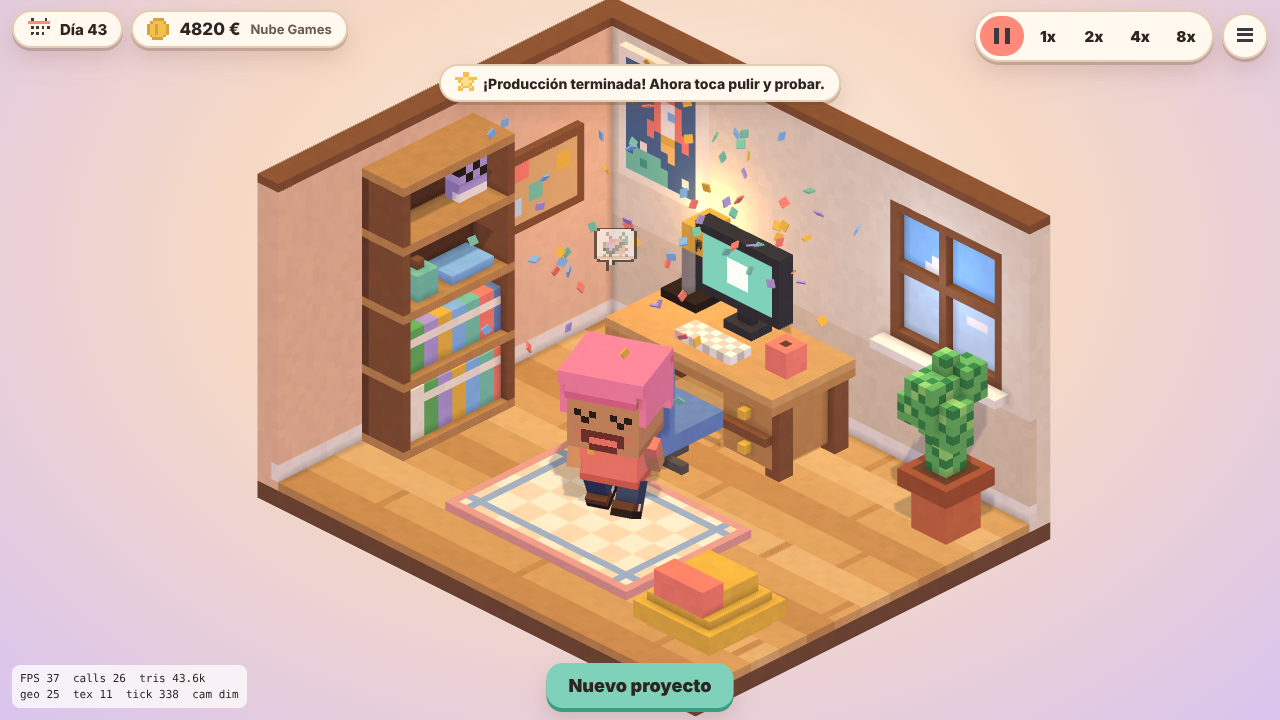
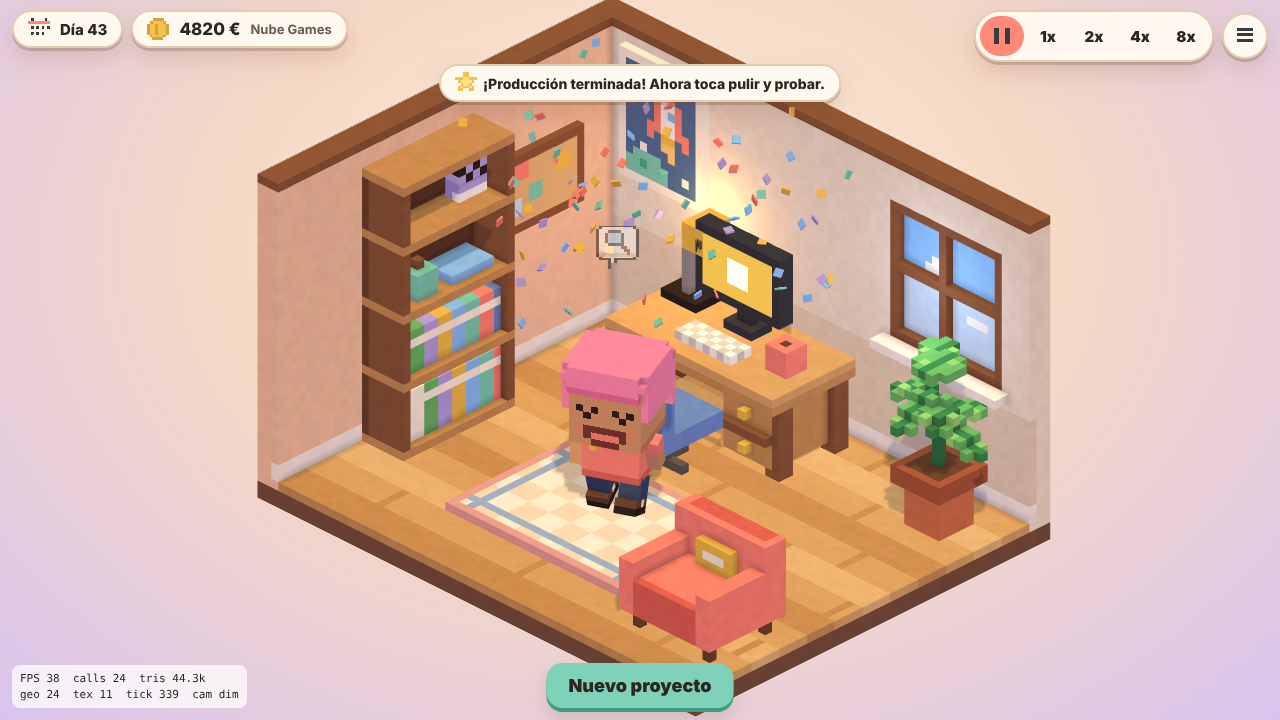
Pulido visual: planta de hojas anchas, sillón en lugar del puf, pelo menos cúbico, burbuja de diálogo sobre la cabeza
Claude-Session: https://claude.ai/code/session_01MghTDSHkAAcfuSCu2VqBvQ

diff --git a/src/render/models/furniture.ts b/src/render/models/furniture.ts
@@ -103,18 +103,31 @@ export function buildChair(): VoxelGrid {
 }
 
 export function buildPlant(): VoxelGrid {
-  const g = new VoxelGrid(9, 20, 9);
-  g.box(2, 0, 2, 7, 6, 7, P.terracotta);
-  g.box(1, 5, 1, 8, 7, 8, P.terracottaDark);
-  g.box(2, 6, 2, 7, 7, 7, P.woodDeep);
-  // Leaf clusters (hand-placed, slightly irregular)
-  const leaves: [number, number, number, number, number, number][] = [
-    [3, 7, 3, 6, 13, 6], [1, 10, 2, 4, 14, 5], [5, 11, 4, 8, 16, 7], [2, 13, 4, 6, 18, 8],
-    [4, 15, 1, 7, 19, 4], [0, 12, 4, 3, 15, 7], [3, 17, 3, 5, 20, 5],
-  ];
-  leaves.forEach(([x0, y0, z0, x1, y1, z1], i) =>
-    g.box(x0, y0, z0, x1, y1, z1, (x, y, z) => ((x + y + z + i) % 3 === 0 ? P.leafDark : (x * y + z) % 5 === 0 ? P.leafLight : P.leaf)),
-  );
+  const g = new VoxelGrid(13, 22, 13);
+  // Pot (offset so leaves can spill over the rim)
+  g.box(4, 0, 4, 9, 6, 9, P.terracotta);
+  g.box(3, 5, 3, 10, 7, 10, P.terracottaDark);
+  g.box(4, 6, 4, 9, 7, 9, P.woodDeep);
+  // Stems
+  g.box(6, 7, 6, 7, 15, 7, P.leafDark);
+  // Broad leaves radiating outwards at different heights (monstera-like plates).
+  const leaf = (x0: number, y: number, z0: number, w: number, d: number, droop: [number, number]) => {
+    for (let dz = 0; dz < d; dz++)
+      for (let dx = 0; dx < w; dx++) {
+        const edge = (dx === 0 || dx === w - 1) && (dz === 0 || dz === d - 1);
+        if (edge) continue; // rounded corners
+        const tipDrop = Math.round((droop[0] * dx) / Math.max(1, w - 1) + (droop[1] * dz) / Math.max(1, d - 1));
+        const mid = w > d ? dz === Math.floor(d / 2) : dx === Math.floor(w / 2);
+        g.set(x0 + dx, y - tipDrop, z0 + dz, mid ? P.leafDark : (dx + dz) % 4 === 0 ? P.leafLight : P.leaf);
+      }
+  };
+  leaf(7, 12, 5, 6, 3, [2, 0]);   // +x
+  leaf(0, 13, 5, 6, 3, [-2, 0]);  // -x (droop handled by sign below)
+  leaf(5, 15, 7, 3, 6, [0, 2]);   // +z
+  leaf(5, 11, 0, 3, 6, [0, -1]);  // -z
+  leaf(4, 18, 4, 5, 5, [0, 0]);   // crown
+  leaf(8, 16, 8, 4, 4, [1, 1]);
+  leaf(1, 17, 1, 4, 4, [0, 0]);
   return g;
 }
 
@@ -201,13 +214,23 @@ export function buildRug(): VoxelGrid {
   return g;
 }
 
-export function buildBeanbag(): VoxelGrid {
-  const g = new VoxelGrid(11, 7, 11);
-  g.box(1, 0, 1, 10, 4, 10, P.mustard);
-  g.box(0, 1, 0, 11, 3, 11, P.mustard);
-  g.box(2, 4, 2, 9, 6, 9, P.mustard);
-  g.box(2, 4, 7, 9, 7, 10, P.coral); // backrest bump
-  g.box(3, 3, 3, 8, 4, 7, P.woodPale);
+export function buildArmchair(): VoxelGrid {
+  // Small cozy armchair facing +z (towards the viewer). Backrest at low z, armrests on x sides.
+  const g = new VoxelGrid(13, 11, 11);
+  g.box(1, 0, 1, 2, 2, 2, P.woodDeep); // feet
+  g.box(11, 0, 1, 12, 2, 2, P.woodDeep);
+  g.box(1, 0, 9, 2, 2, 10, P.woodDeep);
+  g.box(11, 0, 9, 12, 2, 10, P.woodDeep);
+  g.box(0, 2, 0, 13, 5, 11, P.coralDark); // base
+  g.box(2, 5, 3, 11, 6, 11, P.coral); // seat cushion
+  g.box(2, 5, 10, 11, 6, 11, P.coralDark); // cushion piping
+  g.box(0, 2, 0, 13, 11, 3, P.coral); // backrest
+  g.box(1, 10, 0, 12, 11, 2, P.coralDark);
+  g.box(0, 2, 0, 2, 8, 11, P.coral); // armrests
+  g.box(11, 2, 0, 13, 8, 11, P.coral);
+  g.box(0, 8, 1, 2, 8, 11, P.coralDark);
+  g.box(4, 6, 3, 9, 9, 4, P.mustard); // throw pillow
+  g.box(5, 7, 3, 8, 8, 4, P.cream);
   return g;
 }
 

diff --git a/src/render/officeScene.ts b/src/render/officeScene.ts
@@ -8,7 +8,7 @@ import type { Activity, Appearance, GameState, Project } from '../sim/model/stat
 import { EmpirianView, VOXEL_MATERIAL, type Pose } from './empirianView';
 import { BubbleSystem } from './bubbles';
 import {
-  buildBeanbag, buildBookshelf, buildChair, buildCorkBoard, buildDesk, buildDeskLamp, buildKeyboard, buildMonitor, buildMug,
+  buildArmchair, buildBookshelf, buildChair, buildCorkBoard, buildDesk, buildDeskLamp, buildKeyboard, buildMonitor, buildMug,
   buildPlant, buildPoster, buildProductBox, buildRoomShell, buildRug, ROOM,
 } from './models/furniture';
 import { CLOTH_COLORS, P, PALETTE_HEX } from './palette';
@@ -36,7 +36,7 @@ const POIS: Record<string, Poi> = {
   seat: { x: 24.5, z: 17.5, heading: Math.PI, pose: 'sit' },
   window: { x: 46, z: 17, heading: Math.PI, pose: 'think' },
   shelf: { x: 13, z: 28, heading: -Math.PI / 2, pose: 'think' },
-  beanbag: { x: 51.5, z: 37.5, heading: Math.PI * 0.25, pose: 'lounge' },
+  beanbag: { x: 51.5, z: 39, heading: 0, pose: 'lounge' },
   center: { x: 30, z: 31, heading: Math.PI * 0.25, pose: 'stand' },
   plant: { x: 44, z: 13, heading: Math.atan2(10, -7), pose: 'stand' },
   side: { x: 38, z: 22, heading: Math.PI * 0.25, pose: 'raise' },
@@ -243,11 +243,11 @@ export class OfficeScene {
     this.place(buildMug(), 31, 10, 6);
     this.place(buildDeskLamp(), 13, 10, 2);
     this.place(buildChair(), 20, 0, 13);
-    this.place(buildPlant(), 50, 0, 2, 'plant');
+    this.place(buildPlant(), 47, 0, 0, 'plant');
     this.place(buildBookshelf(), 0, 0, 20, 'shelf');
     this.place(buildPoster(), 2, 18, 0, 'poster', 0.01);
     this.place(buildCorkBoard(), 0, 16, 5, 'poster', 0.01);
-    this.place(buildBeanbag(), 46, 0, 32, 'beanbag');
+    this.place(buildArmchair(), 45, 0, 33, 'beanbag');
   }
 
   // ------------------------------------------------------------------ camera
@@ -629,6 +629,7 @@ export class OfficeScene {
     if (!a) return null;
     const p = new Vector3();
     a.view.head.getWorldPosition(p);
+    p.y += 0.95; // above the hair, not at the neck pivot
     return this.project(p);
   }
 

diff --git a/src/ui/gameUI.ts b/src/ui/gameUI.ts
@@ -163,7 +163,7 @@ export class GameUI {
       const pos = this.scene.empirianScreenPos(founder.id);
       if (pos) {
         this.speechEl.style.left = `${pos.x}px`;
-        this.speechEl.style.top = `${pos.y - 46}px`;
+        this.speechEl.style.top = `${pos.y - 8}px`;
       }
     } else if (this.speechEl) {
       this.speechEl.remove();
@@ -252,7 +252,7 @@ export class GameUI {
         this.toast('Tu planta te mira con orgullo.', 'heart');
         break;
       case 'beanbag':
-        this.toast('El puf de las grandes ideas.', 'idea');
+        this.toast('El sillón de las grandes ideas.', 'idea');
         break;
     }
   }

diff --git a/src/render/models/empirian.ts b/src/render/models/empirian.ts
@@ -130,6 +130,8 @@ function buildHair(a: Appearance, c: ReturnType<typeof partColors>): VoxelGrid {
   const cap = (yTop: number) => {
     H(1, 10, 1, 13, yTop, 12, hc);
     H(1, 10, 1, 13, 11, 2, hs); // darker band at the back for depth
+    // Soften the silhouette: trim the four top corners.
+    for (const [x, z] of [[1, 1], [12, 1], [1, 11], [12, 11]] as const) H(x, yTop - 1, z, x + 1, yTop, z + 1, 0);
   };
 
   if (!hasCap) {

diff --git a/src/render/empirianView.ts b/src/render/empirianView.ts
@@ -212,7 +212,7 @@ export class EmpirianView {
       }
       case 'lounge': {
         target.legL = target.legR = -1.35;
-        target.bodyY = 2.4 * VOXEL; // sunk into the beanbag
+        target.bodyY = 2.2 * VOXEL; // sitting in the armchair
         target.armLz = 0.6;
         target.armRz = -0.6;
         target.headX = -0.25;

diff --git a/docs/ART_DIRECTION.md b/docs/ART_DIRECTION.md
@@ -287,7 +287,7 @@ Todo generado por código a partir de definiciones voxel originales (D-014, D-01
 | Paleta maestra + catálogos de piel (8), pelo (12), ropa (10), pantalón (6) | `src/render/palette.ts` | ✅ |
 | Mallador voxel con oclusión ambiental por vértice y variación sutil de color | `src/render/voxel.ts` | ✅ |
 | Habitación (suelo de tarima, 2 paredes con zócalo y remate, ventana con nubes) | `models/furniture.ts` | ✅ |
-| Escritorio, monitor (pantalla animada), teclado, taza, lámpara, silla, planta, estantería con libros, póster original (cohete), corcho, alfombra, puf | `models/furniture.ts` | ✅ |
+| Escritorio, monitor (pantalla animada), teclado, taza, lámpara, silla, planta de hojas anchas, estantería con libros, póster original (cohete), corcho, alfombra, sillón | `models/furniture.ts` | ✅ |
 | Caja coleccionable de producto (color y "logo" derivados del nombre) | `models/furniture.ts` | ✅ |
 | Empirian modular: 8 peinados, 5 prendas, 6 accesorios (gafas, auriculares, gorra, barba…) | `models/empirian.ts` | ✅ |
 | Caras: 9 expresiones + parpadeo | `src/render/face.ts` | ✅ |
@@ -297,4 +297,4 @@ Todo generado por código a partir de definiciones voxel originales (D-014, D-01
 
 **Lista de originalidad (§7):** revisada para todos los recursos anteriores. Proporciones propias (cabeza ≈ 45 %), sin manos en pinza ni cabezas cilíndricas, sin texturas pixeladas sobre cubos al estilo Minecraft (los cubos son de color liso con AO), sin marcas ni productos reconocibles. **Pendiente:** revisión visual del propietario (F1.12).
 
-**Mejoras artísticas identificadas:** el puf aún parece una caja; la planta se lee como cactus; los peinados "Corto" y "Flequillo" forman un bloque muy cuadrado; las burbujas pueden solaparse con el texto anclado al Empirian; falta un retrato del Empirian renderizado desde el modelo 3D (hoy es la cara 2D).
+**Mejoras artísticas identificadas:** (resuelto: el puf se sustituyó por un sillón, la planta ya no parece un cactus, el pelo tiene las esquinas recortadas) los peinados siguen siendo bastante cúbicos; las burbujas pueden solaparse con el texto anclado al Empirian; falta un retrato del Empirian renderizado desde el modelo 3D (hoy es la cara 2D).

diff --git a/docs/ASSET_REGISTRY.md b/docs/ASSET_REGISTRY.md
@@ -8,7 +8,7 @@ Todo recurso que entre en el repositorio (modelos, texturas, animaciones, fuente
 |---|---|---|---|---|---|---|---|
 | A-001 | Paleta maestra y catálogos de color | `src/render/palette.ts` | Claude Code para el propietario | Código | Todos los derechos reservados (D-016) | Original | 2026-11-14 |
 | A-002 | Habitación inicial (suelo, paredes, ventana) | `src/render/models/furniture.ts` | Claude Code | Código (definición voxel) | Todos los derechos reservados | Original | 2026-11-14 |
-| A-003 | Mobiliario: escritorio, monitor, teclado, taza, lámpara, silla, planta, estantería, corcho, alfombra, puf | `src/render/models/furniture.ts` | Claude Code | Código | Todos los derechos reservados | Original | 2026-11-14 |
+| A-003 | Mobiliario: escritorio, monitor, teclado, taza, lámpara, silla, planta, estantería, corcho, alfombra, sillón | `src/render/models/furniture.ts` | Claude Code | Código | Todos los derechos reservados | Original | 2026-11-14 |
 | A-004 | Póster "cohete y planeta" (pixel art 10×13) | `src/render/models/furniture.ts` | Claude Code | Código | Todos los derechos reservados | Original | 2026-11-14 |
 | A-005 | Caja coleccionable de producto | `src/render/models/furniture.ts` | Claude Code | Código | Todos los derechos reservados | Original | 2026-11-14 |
 | A-006 | Empirian modular (cabeza, torso, brazos, piernas, 8 peinados, 5 prendas, 6 accesorios) | `src/render/models/empirian.ts` | Claude Code | Código | Todos los derechos reservados | Original; proporciones propias (ART_DIRECTION §3.1) | 2026-11-14 |

diff --git a/docs/DEVELOPMENT_LOG.md b/docs/DEVELOPMENT_LOG.md
@@ -4,6 +4,16 @@ Registro cronológico de bloques de trabajo. Lo más reciente, arriba.
 
 ---
 
+## 2026-11-14 — Bloque 3: pulido visual
+
+- Planta rediseñada con hojas anchas (antes se leía como un cactus).
+- El puf (se veía como una caja o un pastel escalonado) se sustituye por un **sillón** acogedor; el Empirian se sienta mirando al jugador.
+- Peinados con las esquinas superiores recortadas (silueta menos "caja").
+- La burbuja de diálogo se ancla sobre el pelo, no en el cuello.
+- Comprobado: `npm test` 40/40, build ✅, e2e 18/18, estrés 91 draw calls. Capturas regeneradas.
+
+---
+
 ## 2026-11-14 — Bloque 2 de la sesión autónoma: estrés, exportar/importar, pausa manual
 
 - **F1.10 escena de estrés** (`?stress=10`, `tools/e2e/stress.cjs`): 11 Empirians → 91 draw calls, 81 k triángulos (antes de fusionar cabeza+pelo: 102). Captura `13-stress-10.png`. Los Empirians extra son solo visuales y se solapan entre sí: la evitación entre personajes se hará con la contratación (F4).
